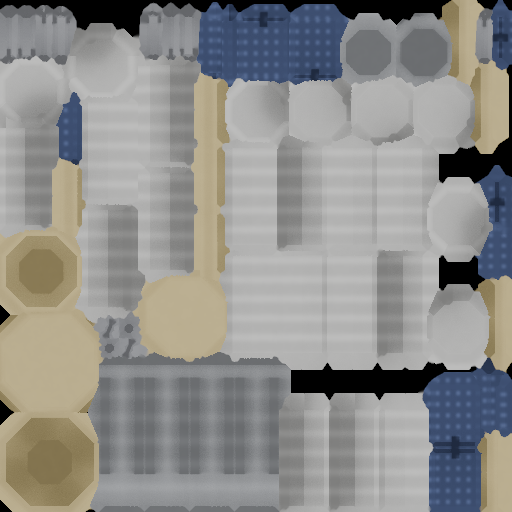
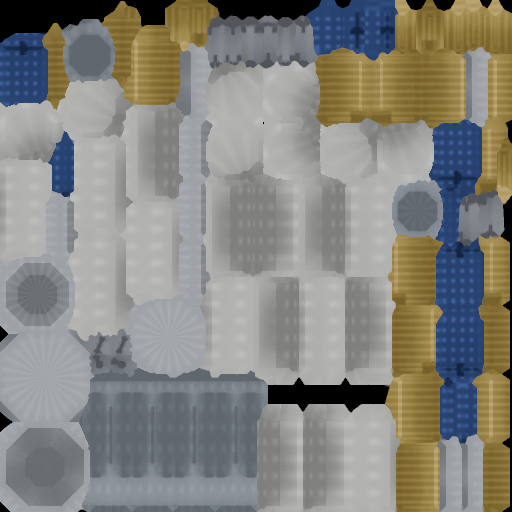
Rework the pandemic odds
The old model divided the odds by the colony count while _trigger_pandemic
was already dividing the toll by it — settling the system cut expected
losses about fifteenfold — and the direction was wrong anyway: more worlds
trading and travelling is more coupling, not less. Population never appeared
at all. Life expectancy stood in for public health, but it is driven by the
longevity splice, so engineering people to live longer made them less likely
to catch a plague. And a count of unlocked research nodes never falls.

Every term now is something already simulated, and three are things the
player is doing rather than things they once learned:

    editing       splices running now, not a research count
    uniformity    population-weighted diversity_of()
    crowding      pop / world capacity
    traffic       flights in the air, replacing the inverted dilution
    surveillance  the compute slider now buys safety, not just warning

    baseline (standard)     7.9%
    minimal founders       16.6%
    4x population          15.6%
    40 flights up          19.0%
    all compute on watch   -20%+

uniformity is the largest term on purpose: the founding-stock choice becomes
a bet about disease as well as launch mass.

PANDEMIC_BASE 0.03 -> 0.017. The new terms multiply to ~1.8 for an ordinary
civilisation, so keeping the old base would have doubled the rate as a side
effect of a rewrite not meant to change it.

Suite 87/87.

diff --git a/tools/depot.py b/tools/depot.py
@@ -13,29 +13,46 @@ tex_out = out.replace(".glb", "_albedo.png")
 S.setup()
 
 # Hardware colours.  Solar panels are the dark note that makes the silhouette read; the
-# tanks are the bright one, because they are the depot.  The gold is thermal blanket, and
-# it goes on the collar and base plate rather than the spine: the spine sits inside the
-# tank cluster and is barely visible from outside, so colour spent there is colour wasted.
-V_SPINE  = (0.55, 0.57, 0.60)   # bare structure, mostly hidden inside the tank cluster
-V_TANK   = (0.86, 0.86, 0.84)   # white tankage
-V_COLLAR = (0.82, 0.66, 0.30)   # gold MLI, on the two parts actually in view
-V_BOOM   = (0.40, 0.41, 0.44)
-V_PANEL  = (0.11, 0.15, 0.32)   # solar cells
+# tanks are the bright one, because they are the depot.
+#
+# Gold is multi-layer insulation and goes on the THERMAL PLATES and nowhere else.  It used
+# to sit on the docking collar and berthing plate purely because those were in view, which
+# made the gold decoration rather than a material — a docking collar is a structural ring
+# and is bare steel.  The plates below are the parts that are actually insulation.
+V_SPINE   = (0.46, 0.52, 0.60)   # steel-blue structure, inside the tank cluster
+V_TANK    = (0.90, 0.90, 0.87)   # white tankage
+V_COLLAR  = (0.54, 0.58, 0.64)   # bare steel: docking collar and berthing plate
+V_THERMAL = (0.88, 0.63, 0.16)   # gold MLI — thermal plates ONLY, nothing else
+V_BOOM    = (0.28, 0.30, 0.34)   # graphite booms
+V_PANEL   = (0.07, 0.12, 0.38)   # solar cells
 
 parts = []
 
 # Central spine, along Z (radial).
-parts.append(S.cyl(0.026, 0.155, (0, 0, 0), V_SPINE, bands=[('Z', 250.0)], amp=0.16))
+parts.append(S.cyl(0.026, 0.155, (0, 0, 0), V_SPINE,
+                   bands=[('Z', 250.0)], windings=12, amp=0.18))
 
 # Four storage tanks clustered around the spine - the actual "depot".
 for i in range(4):
     a = math.radians(45 + 90 * i)
     parts.append(S.cyl(0.030, 0.105, (math.cos(a) * 0.052, math.sin(a) * 0.052, -0.010),
-                       V_TANK, bands=[('Z', 300.0)], amp=0.22))
+                       V_TANK, bands=[('Z', 300.0)], windings=16, amp=0.26))
 
 # Docking collar on the outward (+Z) end, berthing plate on the planet-facing end.
-parts.append(S.cyl(0.042, 0.018, (0, 0, 0.086), V_COLLAR, bands=[('Z', 420.0)], amp=0.14))
-parts.append(S.cyl(0.052, 0.012, (0, 0, -0.082), V_COLLAR, bands=[('Z', 420.0)], amp=0.14))
+parts.append(S.cyl(0.042, 0.018, (0, 0, 0.086), V_COLLAR,
+                   bands=[('Z', 420.0)], windings=20, amp=0.18))
+parts.append(S.cyl(0.052, 0.012, (0, 0, -0.082), V_COLLAR,
+                   bands=[('Z', 420.0)], windings=24, amp=0.18))
+
+# Thermal plates: four insulation panels standing off the spine, in the gaps between the
+# tanks so they are visible from outside rather than buried.  Heavy grime and a fine seam
+# pitch, because MLI is crinkled foil and reads wrong if it is smooth.
+for i in range(4):
+    a = math.radians(90 * i)
+    parts.append(S.box((0.040, 0.004, 0.070),
+                       (math.cos(a) * 0.044, math.sin(a) * 0.044, -0.010),
+                       V_THERMAL, rot=(0, 0, a),
+                       bands=[('Z', 700.0)], amp=0.30, grime=0.22))
 
 # Solar wings on booms, spread along X -> along-track once instanced.  The booms matter:
 # without them the panels sink into the tank cluster and the silhouette reads as a blob.
@@ -43,6 +60,6 @@ for sx in (-1, 1):
     parts.append(S.cyl(0.005, 0.040, (sx * 0.075, 0, 0.022), V_BOOM,
                        rot=(0, math.radians(90), 0)))
     parts.append(S.box((0.058, 0.044, 0.004), (sx * 0.118, 0, 0.022), V_PANEL,
-                       bands=[('X', 520.0), ('Y', 560.0)], amp=0.45, grime=0.04))
+                       bands=[('X', 520.0), ('Y', 560.0)], amp=0.52, grime=0.04))
 
 S.finish(parts, "OrbitalDepot", out, tex_out, tag="DEPOT")

diff --git a/ARCHITECTURE.md b/ARCHITECTURE.md
@@ -1301,6 +1301,48 @@ So `_update_population` costs exactly what it did when a stock was a single row.
 **`TRAITS` order and not tick order**, or two populations holding the same three traits would
 hash to different keys and be different stocks.
 
+### What makes an engineered plague likely
+
+The old model was `base x (1 + 0.4·biotech_nodes) x (1 + 2·ai) x (2 / (1 + worlds)) x (BASE_LE /
+le)`, and four things were wrong with it:
+
+- **The colony count divided the odds, and `_trigger_pandemic` was already dividing the toll by
+  it.** At five worlds that is 0.33 × 0.2 — expected losses fell about fifteenfold for settling
+  the system. The direction was wrong anyway: more settled worlds, trading and travelling, is
+  more coupling between reservoirs, not less. Colonies blunt the **toll**; they do not make an
+  outbreak less likely.
+- **Population never appeared.** Two billion and twenty billion gave identical odds, in a game
+  that tracks people one at a time and models what a world can hold.
+- **Life expectancy stood in for public health**, but `le` here is driven by the longevity
+  splice — so engineering people to live longer made them less likely to catch a plague.
+- **A count of unlocked research nodes never falls.** A civilisation that learned bioengineering
+  a thousand years ago and stopped was as exposed as one editing genomes this year.
+
+Now, over the solar system — which is where a plague spreads, since `_trigger_pandemic` reaches
+Earth and the in-system colonies and leaves the interstellar ones alone:
+
+| term | from | at |
+|---|---|---|
+| `editing` | splices running **now** (`st["splice"]`) | 7.9% baseline |
+| `uniformity` | population-weighted `diversity_of()` | **16.6%** on minimal founders |
+| `crowding` | `pop / _world_capacity` | 15.6% at 4× population |
+| `traffic` | `active_launches` | 19.0% with 40 flights up |
+| `surveillance` | `track_compute("pandemic")` | −20%+ fully allocated |
+
+`uniformity` is the largest term on purpose: it is the one the rest of the game has been
+building toward. A population spliced into one optimised genome is a monoculture, and the
+founding-stock choice — until now a trade of launch mass against capability — is also a bet
+about disease.
+
+`surveillance` is the lever the UI already implied. The compute slider labelled "Epidemiological
+modelling" bought foresight and nothing else: the player could watch an outbreak coming and do
+nothing about it. It saturates, so pointing everything at it never reaches zero.
+
+**`PANDEMIC_BASE` moved 0.03 → 0.017.** The new terms multiply to about 1.8 for an ordinary
+standard-diversity civilisation, so holding the old base would have doubled the rate as a side
+effect of a rewrite that was not supposed to change how often this happens. 0.017 puts that
+civilisation back where it was; everything above it is the player's own doing.
+
 ### A colony's probes are built with a colony's star
 
 `_vn_launch` charged `ResearchTree.resources["energy"]` whoever launched — so a probe assembled
